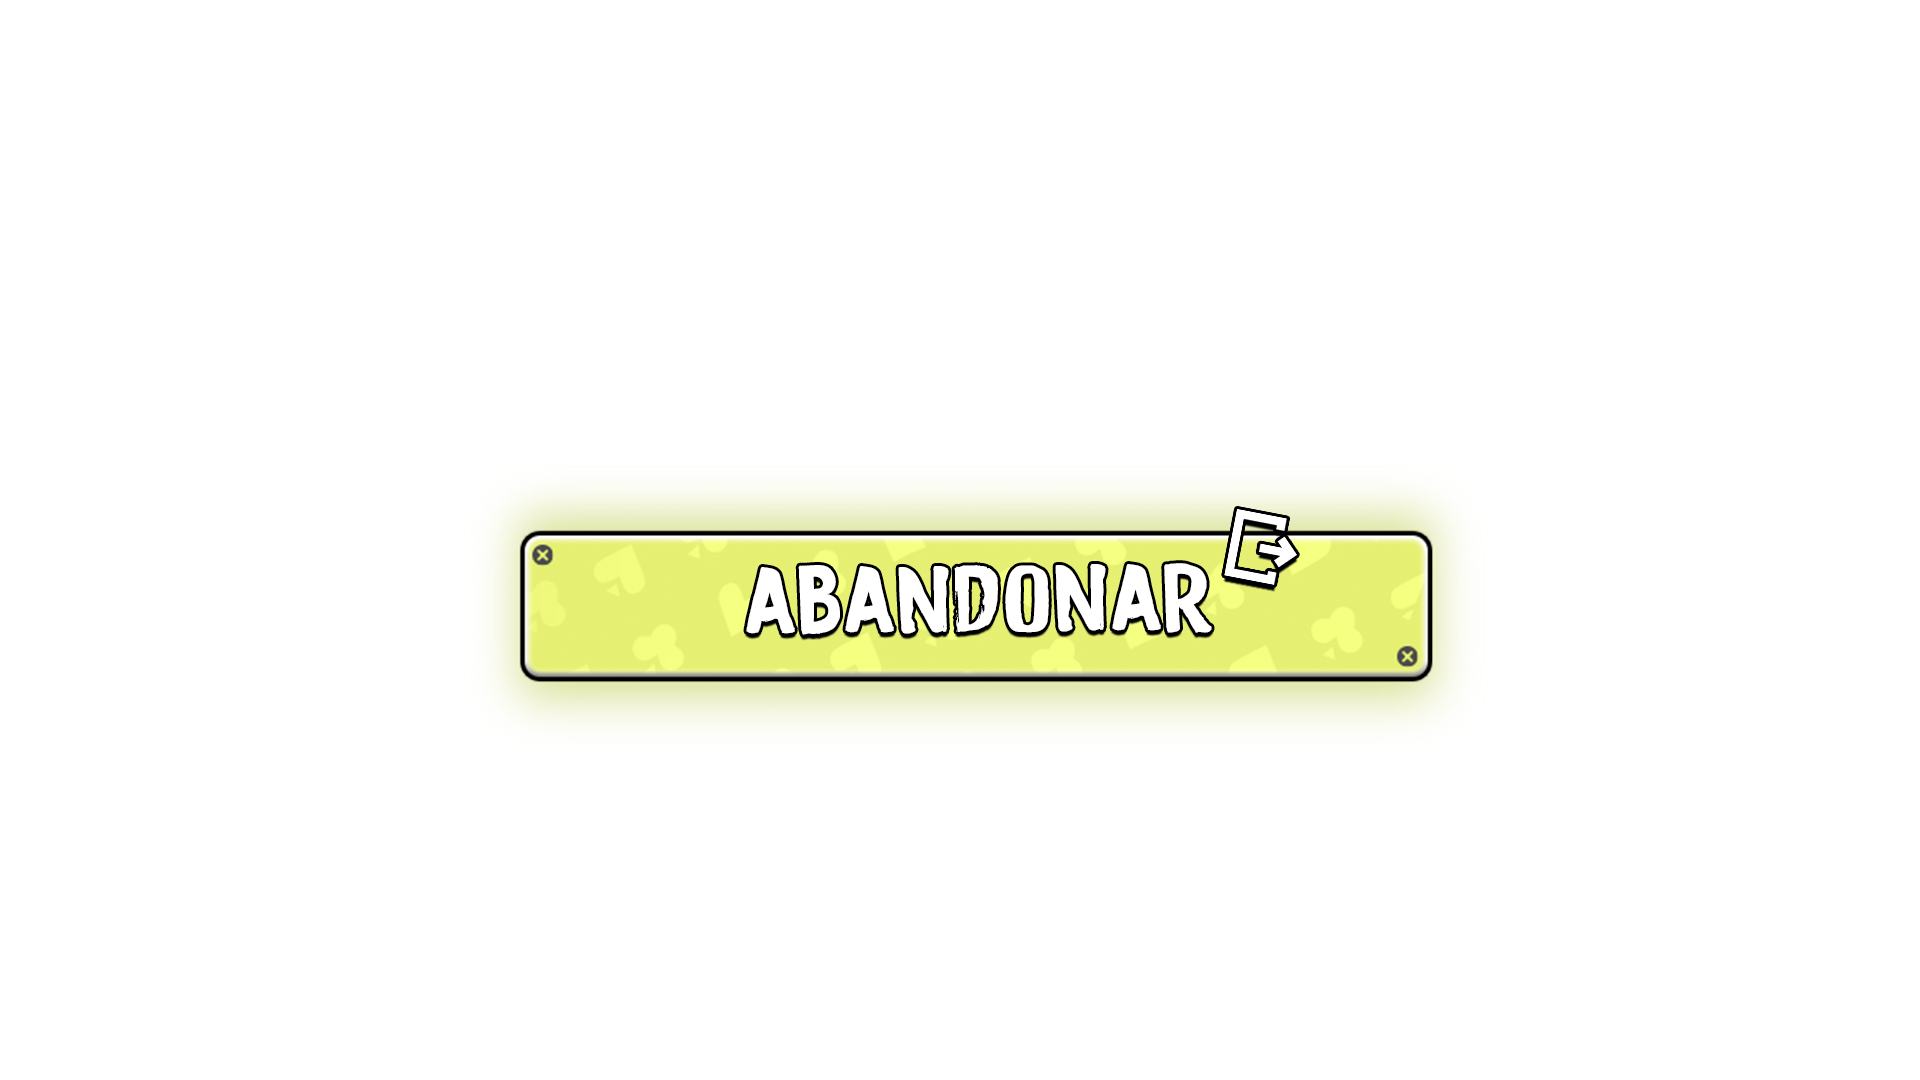
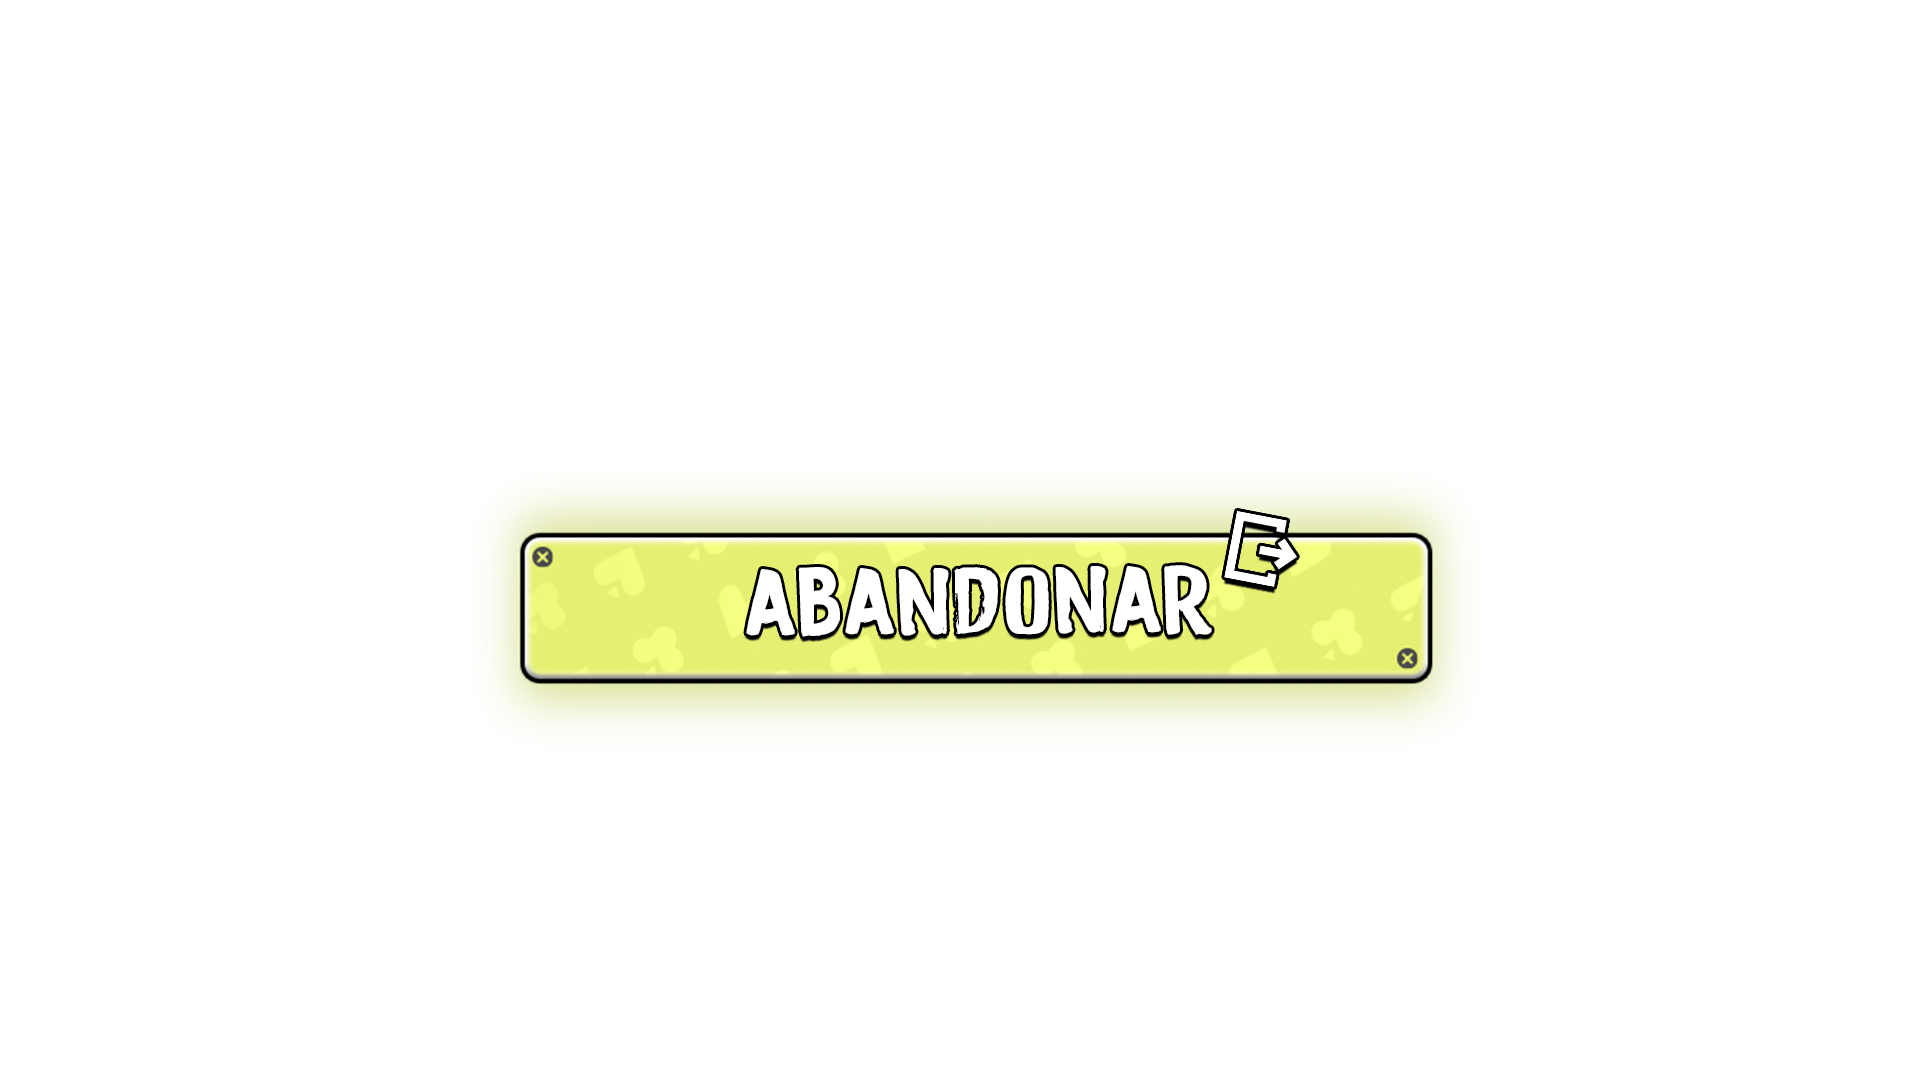
v0.32.1 - Menu online endrace

Changed region(s): [[0.25, 0.4583, 0.75, 0.6417]]

diff --git a/src/Facade/Input/InputFacadeClover.cpp b/src/Facade/Input/InputFacadeClover.cpp
@@ -1,9 +1,3 @@
-/**
- * MENSAJE DE JUDITH: Yo soy la responsable de que toda esta logica este aqui.
- * En algun momento pense que esto estaba bien y lo continue. No es asi. Pero ya ha estalado demasiado
- * y no queda tiempo. Si esto baja la nota, que sea solo a mi y bien merecido.
- */
-
 #include "InputFacadeClover.h"
 
 #include <Components/CId.h>
@@ -1015,10 +1009,7 @@ void InputFacadeClover::CheckInputEndRace(int& input, int maxInput, bool menu){
                 switch(input) {
                     case 0: {
                         if (multiplayer) {
-                            WeHaveToGoToMenu = true;
-                            timerGoToMenu = Utils::getMillisSinceEpoch();
-                            RenderFacadeManager::GetInstance()->GetRenderFacade()->ResetInputGameOptions();
-                            RenderFacadeManager::GetInstance()->GetRenderFacade()->ResetInputCharacter();
+                            EventManager::GetInstance().AddEventMulti(Event{EventType::STATE_LOBBYMULTI});
                             vector<uint8_t> vacio;
                             GameValues::GetInstance()->SetCharacterSel(vacio);
                         } else {
@@ -1033,17 +1024,22 @@ void InputFacadeClover::CheckInputEndRace(int& input, int maxInput, bool menu){
                         }
                         break;
                     }
-                    case 1: {
-                        EventManager::GetInstance().AddEventMulti(Event{EventType::STATE_SELECT_CHARACTER});
+                    case 1: {                        
+                        if (multiplayer) {
+                            WeHaveToGoToMenu = true;
+                            timerGoToMenu = Utils::getMillisSinceEpoch();
+                            vector<uint8_t> vacio;
+                            GameValues::GetInstance()->SetCharacterSel(vacio);
+                        } else {
+                            EventManager::GetInstance().AddEventMulti(Event{EventType::STATE_SELECT_CHARACTER});
+                        }
                         break;
                     }
                     case 2: {
                         WeHaveToGoToMenu = true;
                         timerGoToMenu = Utils::getMillisSinceEpoch();
-                        RenderFacadeManager::GetInstance()->GetRenderFacade()->ResetInputGameOptions();
-                        RenderFacadeManager::GetInstance()->GetRenderFacade()->ResetInputCharacter();
-                        vector<uint8_t> vacio;
-                        GameValues::GetInstance()->SetCharacterSel(vacio);
+                        //RenderFacadeManager::GetInstance()->GetRenderFacade()->ResetInputGameOptions();
+                        //RenderFacadeManager::GetInstance()->GetRenderFacade()->ResetInputCharacter();
                         break;
                     }
                 }
@@ -1065,11 +1061,11 @@ void InputFacadeClover::CheckInputEndRace(int& input, int maxInput, bool menu){
                 if (input < 0) {
                     input = maxInput;
                 }
-                if (multiplayer) { input = 0; }
-                else {
-                    SetValueInput(BUTTON_STICK_UP, true);
-                    EventManager::GetInstance().AddEventMulti(Event{EventType::MENU_OPTION});
+                if (multiplayer && input == 2) { 
+                    input--; 
                 }
+                SetValueInput(BUTTON_STICK_UP, true);
+                EventManager::GetInstance().AddEventMulti(Event{EventType::MENU_OPTION});
             } else if ( !IsKeyOrGamepadPress(GLFW_KEY_UP, GLFW_GAMEPAD_AXIS_LEFT_Y, true, -0.5, GLFW_GAMEPAD_BUTTON_DPAD_UP, true) ){
                 SetValueInput(BUTTON_STICK_UP, false);
             }
@@ -1082,16 +1078,17 @@ void InputFacadeClover::CheckInputEndRace(int& input, int maxInput, bool menu){
                 if(input > maxInput) {
                     input = 0;
                 }
-                if (multiplayer) { input = 0; }
-                else {
-                    SetValueInput(BUTTON_STICK_DOWN, true);
-                    EventManager::GetInstance().AddEventMulti(Event{EventType::MENU_OPTION});
+                if (multiplayer && input == 2) { 
+                    input = 0; 
                 }
+                SetValueInput(BUTTON_STICK_DOWN, true);
+                EventManager::GetInstance().AddEventMulti(Event{EventType::MENU_OPTION});
             } else if ( !IsKeyOrGamepadPress(GLFW_KEY_DOWN, GLFW_GAMEPAD_AXIS_LEFT_Y, true, 0.5, GLFW_GAMEPAD_BUTTON_DPAD_DOWN, true) ){
                 SetValueInput(BUTTON_STICK_DOWN, false);
             }
         }
     }
+    //cout << "ESTOY EN EL INPUT DE ENDRACE NORMAL: " << input << endl;
 }
 
 void InputFacadeClover::CheckInputEndTournament(int& input, int maxInput, uint8_t menu){

diff --git a/src/Facade/Render/RenderFacadeClover.cpp b/src/Facade/Render/RenderFacadeClover.cpp
@@ -1027,11 +1027,13 @@ void RenderFacadeClover::FacadeCheckInputSelectCharacter() {
 void RenderFacadeClover::FacadeCheckInputGameOptions() {
     InputFacadeManager::GetInstance()->GetInputFacade()->CheckInputGameOptions(inputGO, maxInputGO, option);
     gamepadConnected = InputFacadeManager::GetInstance()->GetInputFacade()->IsConectedGamepad();
+    multiplayer = false;
 }
 
 void RenderFacadeClover::FacadeCheckInputTournamentOptions() {
     InputFacadeManager::GetInstance()->GetInputFacade()->CheckInputTournamentOptions(inputTO, maxInputTO, optionTO);
     gamepadConnected = InputFacadeManager::GetInstance()->GetInputFacade()->IsConectedGamepad();
+    multiplayer = false;
 }
 
 void RenderFacadeClover::FacadeCheckInputControler() {
@@ -1076,6 +1078,7 @@ void RenderFacadeClover::FacadeCheckInputLobbyMultiExit() {
 void RenderFacadeClover::FacadeCheckInputLobbyMultiSelChar() {
     InputFacadeManager::GetInstance()->GetInputFacade()->CheckInputLobbyMultiSelChar(inputSC, maxInputSC);
     gamepadConnected = InputFacadeManager::GetInstance()->GetInputFacade()->IsConectedGamepad();
+    multiplayer = true;
 }
 
 void RenderFacadeClover::FacadeCheckInputSettings() {
@@ -1635,15 +1638,25 @@ void RenderFacadeClover::FacadeDrawEndRace() {
     if (menuER) {
         file = "media/menu/endrace/finish_menu_options_bg.png";
         Draw2DImage(0.0f, 0.0f, device->GetScreenWidth(), device->GetScreenHeight(), 0.4f, file, true);
-        file = "media/menu/endrace/finish_menu_options_elements.png";
-        Draw2DImage(0.0f, 0.0f, device->GetScreenWidth(), device->GetScreenHeight(), 0.5f, file, true);
-
-        std::string files[3] = {
-            "media/menu/endrace/finish_option1_hover.png",
-            "media/menu/endrace/finish_option2_hover.png",
-            "media/menu/endrace/finish_option3_hover.png"
-        };
-        Draw2DImage(0.0f, 0.0f, device->GetScreenWidth(), device->GetScreenHeight(), 0.2f, files[inputER], true);
+        
+        if ( !multiplayer ) {
+            file = "media/menu/endrace/finish_menu_options_elements.png";
+            Draw2DImage(0.0f, 0.0f, device->GetScreenWidth(), device->GetScreenHeight(), 0.5f, file, true);
+            std::string files[3] = {
+                "media/menu/endrace/finish_option1_hover.png",
+                "media/menu/endrace/finish_option2_hover.png",
+                "media/menu/endrace/finish_option3_hover.png"
+            };
+            Draw2DImage(0.0f, 0.0f, device->GetScreenWidth(), device->GetScreenHeight(), 0.2f, files[inputER], true);
+        } else {
+            file = "media/menu/endrace/online/o_finish_menu_options_elements.png";
+            Draw2DImage(0.0f, 0.0f, device->GetScreenWidth(), device->GetScreenHeight(), 0.5f, file, true);
+            std::string files[2] = {
+                "media/menu/endrace/online/o_finish_option1_hover.png",
+                "media/menu/endrace/online/o_finish_option2_hover.png"
+            };
+            Draw2DImage(0.0f, 0.0f, device->GetScreenWidth(), device->GetScreenHeight(), 0.2f, files[inputER], true);
+        }
     }
     device->SetEnableDepthTest(true);
 }

diff --git a/src/Facade/Render/RenderFacadeClover.h b/src/Facade/Render/RenderFacadeClover.h
@@ -196,8 +196,9 @@ class RenderFacadeClover : public RenderFacade {
                                           "Recuerda que lo mas importante es divertirse!",
                                           };
 
-      // Gamepad
+      // Bool
       bool gamepadConnected { false };
+      bool multiplayer { false };
 
       // En juego
       bool inputShowTable { true };
